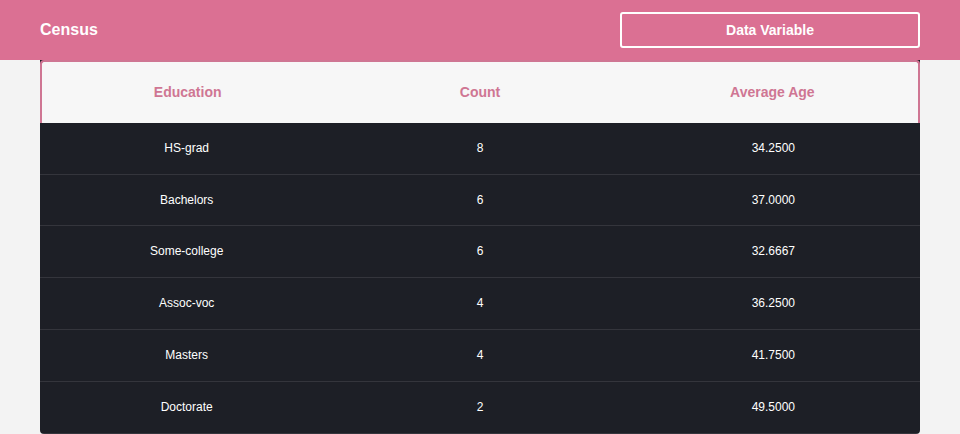
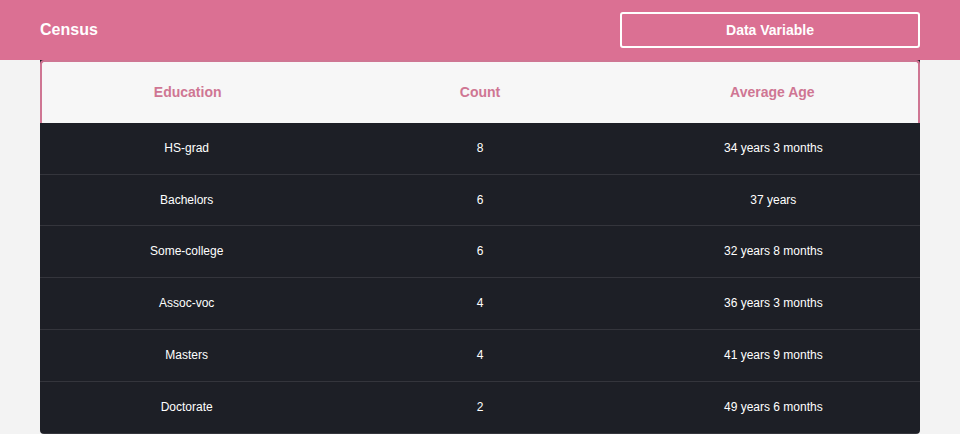
feat(client): show average age as years and months
The API still returns the decimal. The table rounds it to whole months and the census-results-table spec records that display.

diff --git a/client/src/components/Table/Data.tsx b/client/src/components/Table/Data.tsx
@@ -7,6 +7,7 @@ import {
     fetchVariableNames,
     selectActiveVariable,
 } from "../../actions";
+import { formatAverageAge } from "../../formatAverageAge";
 import { ActiveCensusVariableState } from "../../reducers/activeCensusVariable";
 import { FetchStatus, ICensusPaginatedVariableDataState } from "../../reducers/censusPaginatedData";
 import { CensusVariableNamesState } from "../../reducers/censusVariableNames";
@@ -41,7 +42,7 @@ class SimpleData extends React.Component<IDataProps, {}> {
         <tr key={`${variableName}-${index}-${value}`}>
           <Td>{variable[variableName || activeCensusVariable]}</Td>
           <Td>{variable.counter}</Td>
-          <Td>{variable.average}</Td>
+          <Td>{formatAverageAge(String(variable.average))}</Td>
         </tr>
       );
     });

diff --git a/client/src/formatAverageAge.spec.ts b/client/src/formatAverageAge.spec.ts
@@ -1,0 +1,16 @@
+import { formatAverageAge } from "./formatAverageAge";
+
+describe("formatAverageAge", () => {
+  it("shows years and a whole number of months", () => {
+    expect(formatAverageAge("34.25")).toBe("34 years 3 months");
+    expect(formatAverageAge("32.6667")).toBe("32 years 8 months");
+    expect(formatAverageAge("37.0")).toBe("37 years");
+    expect(formatAverageAge("49.5")).toBe("49 years 6 months");
+  });
+
+  it("uses the singular for one year or one month", () => {
+    expect(formatAverageAge("1")).toBe("1 year");
+    expect(formatAverageAge(String(1 / 12))).toBe("1 month");
+    expect(formatAverageAge(String(13 / 12))).toBe("1 year 1 month");
+  });
+});

diff --git a/client/src/formatAverageAge.ts b/client/src/formatAverageAge.ts
@@ -1,0 +1,14 @@
+export function formatAverageAge(average: string): string {
+  const totalMonths = Math.round(Number(average) * 12);
+  const years = Math.floor(totalMonths / 12);
+  const months = totalMonths % 12;
+  const yearText = years === 1 ? "1 year" : years + " years";
+  const monthText = months === 1 ? "1 month" : months + " months";
+  if (months === 0) {
+    return yearText;
+  }
+  if (years === 0) {
+    return monthText;
+  }
+  return yearText + " " + monthText;
+}

diff --git a/client/src/components/Table/Data.spec.tsx b/client/src/components/Table/Data.spec.tsx
@@ -55,6 +55,7 @@ describe("census results table", () => {
       expect(header.prop("scope")).toBe("col");
     });
     expect(tables.find("tbody tr").hostNodes()).toHaveLength(1);
+    expect(tables.find("tbody tr").hostNodes().text()).toContain("41 years 2 months");
     const css = Array.from(document.querySelectorAll("style"))
       .map((node) => (node as HTMLStyleElement).innerHTML)
       .join("\n");

diff --git a/openspec/specs/census-results-table/spec.md b/openspec/specs/census-results-table/spec.md
@@ -55,3 +55,42 @@ When a page request succeeds with no rows, the page SHALL show an empty message 
 
 - **WHEN** the page request for a column succeeds with an empty row list
 - **THEN** the page states that the column has no results and does not show the results table
+
+### Requirement: Average age is shown in years and months
+
+Each result row SHALL show the average age as whole years and a whole number of months. The month count SHALL be the decimal age multiplied by 12, rounded to the nearest whole month, with every 12 months carried into a year. A remainder of 0 months SHALL be omitted. A count of 1 SHALL use the singular year or month.
+
+#### Scenario: Fractional year
+
+- **WHEN** a row's average age is 34.25
+- **THEN** the row shows 34 years 3 months
+
+#### Scenario: Repeating fraction
+
+- **WHEN** a row's average age is 32.6667
+- **THEN** the row shows 32 years 8 months
+
+#### Scenario: Whole years
+
+- **WHEN** a row's average age is 37
+- **THEN** the row shows 37 years
+
+#### Scenario: Half year
+
+- **WHEN** a row's average age is 49.5
+- **THEN** the row shows 49 years 6 months
+
+#### Scenario: One year
+
+- **WHEN** a row's average age is 1
+- **THEN** the row shows 1 year
+
+#### Scenario: One month
+
+- **WHEN** a row's average age is one twelfth of a year
+- **THEN** the row shows 1 month
+
+#### Scenario: One year and one month
+
+- **WHEN** a row's average age rounds to 13 months
+- **THEN** the row shows 1 year 1 month

diff --git a/openspec/changes/archive/2026-10-26-format-average-age/specs/census-results-table/spec.md b/openspec/changes/archive/2026-10-26-format-average-age/specs/census-results-table/spec.md
@@ -1,0 +1,42 @@
+# Spec Delta
+
+## ADDED Requirements
+
+### Requirement: Average age is shown in years and months
+
+Each result row SHALL show the average age as whole years and a whole number of months. The month count SHALL be the decimal age multiplied by 12, rounded to the nearest whole month, with every 12 months carried into a year. A remainder of 0 months SHALL be omitted. A count of 1 SHALL use the singular year or month.
+
+#### Scenario: Fractional year
+
+- **WHEN** a row's average age is 34.25
+- **THEN** the row shows 34 years 3 months
+
+#### Scenario: Repeating fraction
+
+- **WHEN** a row's average age is 32.6667
+- **THEN** the row shows 32 years 8 months
+
+#### Scenario: Whole years
+
+- **WHEN** a row's average age is 37
+- **THEN** the row shows 37 years
+
+#### Scenario: Half year
+
+- **WHEN** a row's average age is 49.5
+- **THEN** the row shows 49 years 6 months
+
+#### Scenario: One year
+
+- **WHEN** a row's average age is 1
+- **THEN** the row shows 1 year
+
+#### Scenario: One month
+
+- **WHEN** a row's average age is one twelfth of a year
+- **THEN** the row shows 1 month
+
+#### Scenario: One year and one month
+
+- **WHEN** a row's average age rounds to 13 months
+- **THEN** the row shows 1 year 1 month

diff --git a/openspec/changes/archive/2026-10-26-format-average-age/proposal.md b/openspec/changes/archive/2026-10-26-format-average-age/proposal.md
@@ -1,0 +1,30 @@
+# Proposal
+
+## Why
+
+A raw average such as 34.2500 is hard to read as an age. The table should say how many years and months that number is.
+
+## What Changes
+
+- Display each average age as whole years and a whole number of months.
+- Leave the API response unchanged.
+
+## Capabilities
+
+### New Capabilities
+
+- None.
+
+### Modified Capabilities
+
+- `census-results-table`: A result row shows the average age in years and months.
+
+## Impact
+
+- The results table and a client unit test.
+- No API, database, or deploy changes.
+
+## Out of scope
+
+- Changing the SQL or the JSON average.
+- Formatting any other number, colour contrast, and a CI badge.
